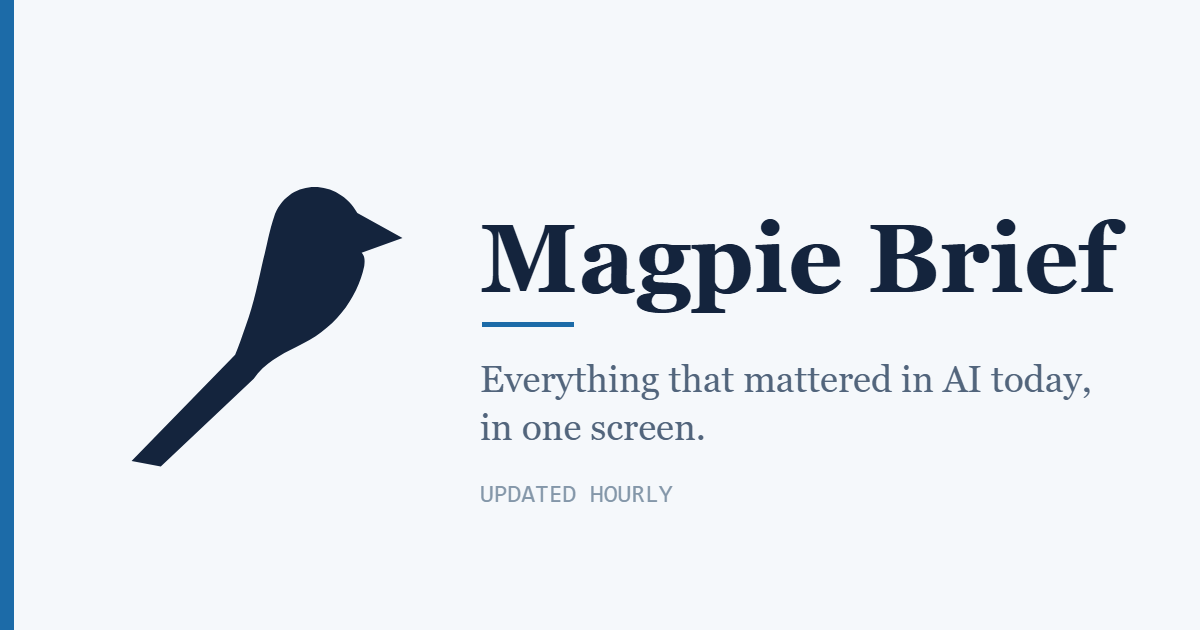
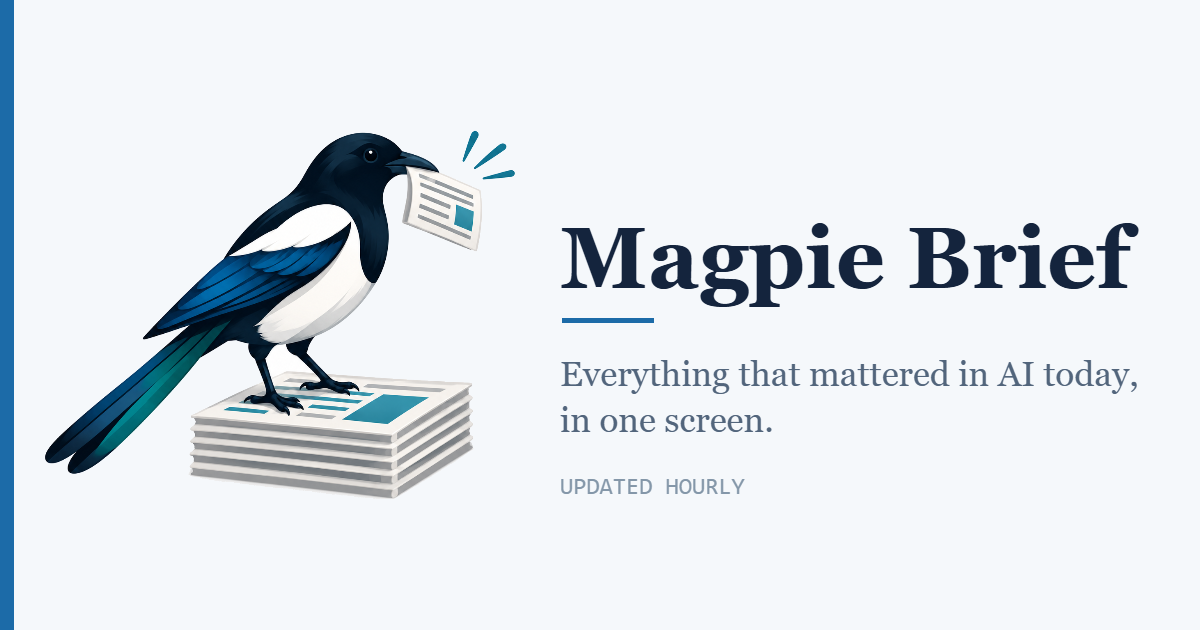
Use the magpie illustration for the masthead and social image
Replaces the drawn silhouette with the supplied artwork everywhere it
has room to read.

The white background is knocked out by flood-filling inward from the
edges rather than by making white pixels transparent — the bird's white
breast and the newspaper stack are the same colour as the background,
and a naive pass erases them. The result is then trimmed to content, so
the mark isn't mostly empty space.

- logo-mark.png (300px, 80KB) in the masthead. The full 900px asset is
  542KB and has no business loading on every page view.
- logo.png, transparent and trimmed, for social profiles and press use.
- og.png rebuilt around the illustration. The wordmark is now measured
  and shrunk to fit; at a fixed 92px it overflowed the canvas and the
  first render read "Magpie Brie".
- apple-touch-icon.png on an opaque ground, since iOS ignores alpha.

The favicon keeps the silhouette. brand/favicon-16px-evidence.png shows
why: rasterised at a true 16px, every crop of the illustration — whole,
bird alone, head alone — turns to unreadable noise. The source artwork
is kept in brand/, which is outside the deployed directory.

Changed region(s): [[0.0308, 0.2111, 0.9558, 0.8143], [0.4008, 0.754, 0.6167, 0.8143]]

diff --git a/src/render.js b/src/render.js
@@ -55,17 +55,6 @@ export function basePath(cfg) {
   }
 }
 
-/**
- * The magpie mark, as a bare path. Upright perched stance drawn to match the
- * brand illustration, but reduced to a single silhouette so it still reads at
- * 16px in a browser tab — the illustration itself turns to mud at that size.
- * Inlined in the masthead so the logo costs no extra request.
- */
-export const MAGPIE_PATH =
-  'M56 17.5 L47.5 12.8 C44 6.5 35 6 32 13 C30.8 16.5 30.5 19 29.8 21.5 ' +
-  'C29 25 28 30 26.5 34 C25.8 36 25.2 37.8 24.5 39.5 L5 59.5 L10.5 60.5 ' +
-  'L28 44 C30 41 33 39.5 36 38 C43 35 47.5 29 48.8 22.8 C49 21.5 48.8 20.8 48.3 20.3 Z';
-
 /** Build an internal link. `path` is always written root-relative. */
 export function link(cfg, path) {
   const base = basePath(cfg);
@@ -201,7 +190,7 @@ export function layout(cfg, ads, { title, description, canonical, sections, acti
   <div class="wrap masthead__inner">
     <div class="brand">
       <a class="brand__name" href="${esc(link(cfg, '/'))}">
-        <svg class="brand__mark" viewBox="0 0 64 64" width="38" height="38" aria-hidden="true" focusable="false"><path fill="currentColor" d="${MAGPIE_PATH}"/></svg>
+        <img class="brand__mark" src="${esc(link(cfg, '/logo-mark.png'))}" width="300" height="235" alt="" decoding="async">
         <span>${esc(cfg.site.name)}</span>
       </a>
       <p class="brand__tag">${esc(cfg.site.tagline)}</p>

diff --git a/public/styles.css b/public/styles.css
@@ -114,10 +114,17 @@ a { color: inherit; }
   gap: 11px;
 }
 
-/* currentColor, so the mark follows the theme without a second asset. */
+/* Sized by height so the intrinsic width/height attributes still give the
+   browser an aspect ratio to reserve — no layout shift while it loads. */
 .brand__mark {
   flex: none;
-  color: var(--ink);
+  height: 58px;
+  width: auto;
+}
+
+@media (max-width: 520px) {
+  .brand__mark { height: 44px; }
+  .brand__name { font-size: 27px; gap: 8px; }
 }
 
 .brand__tag {
